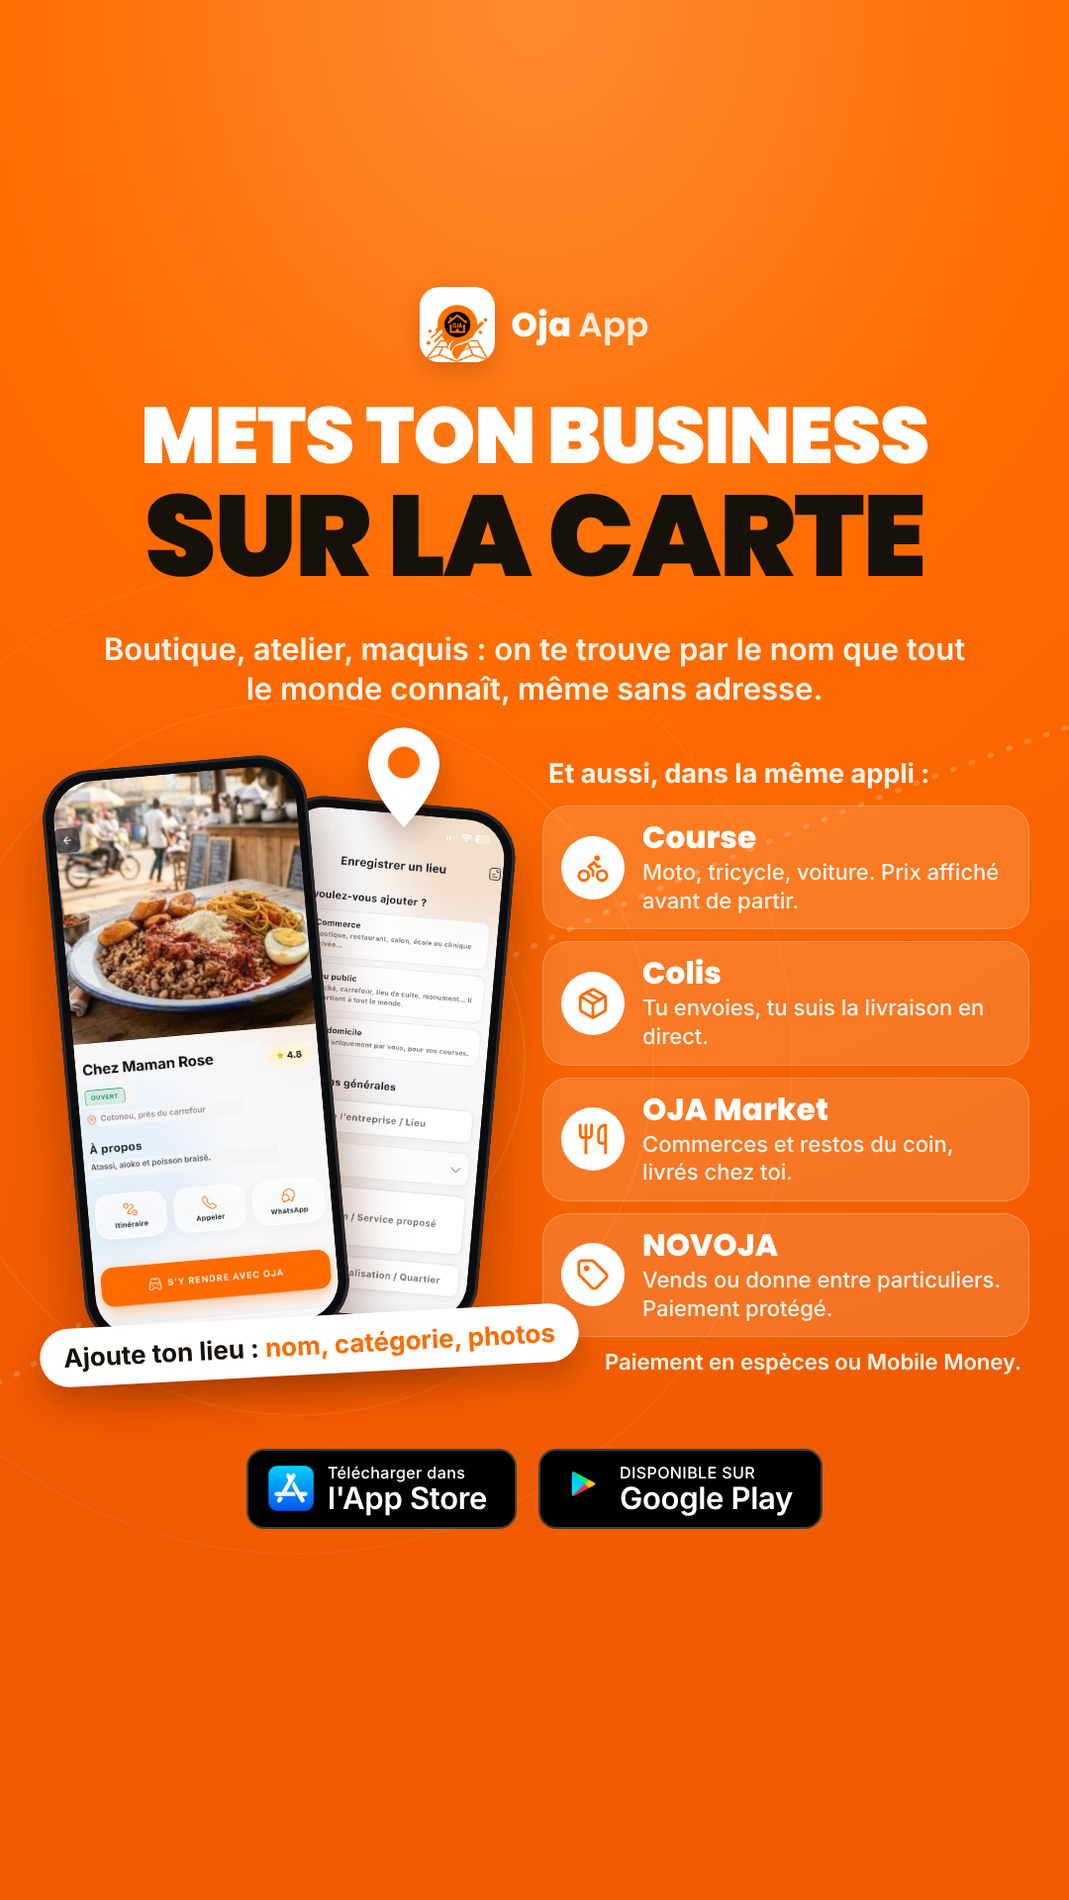
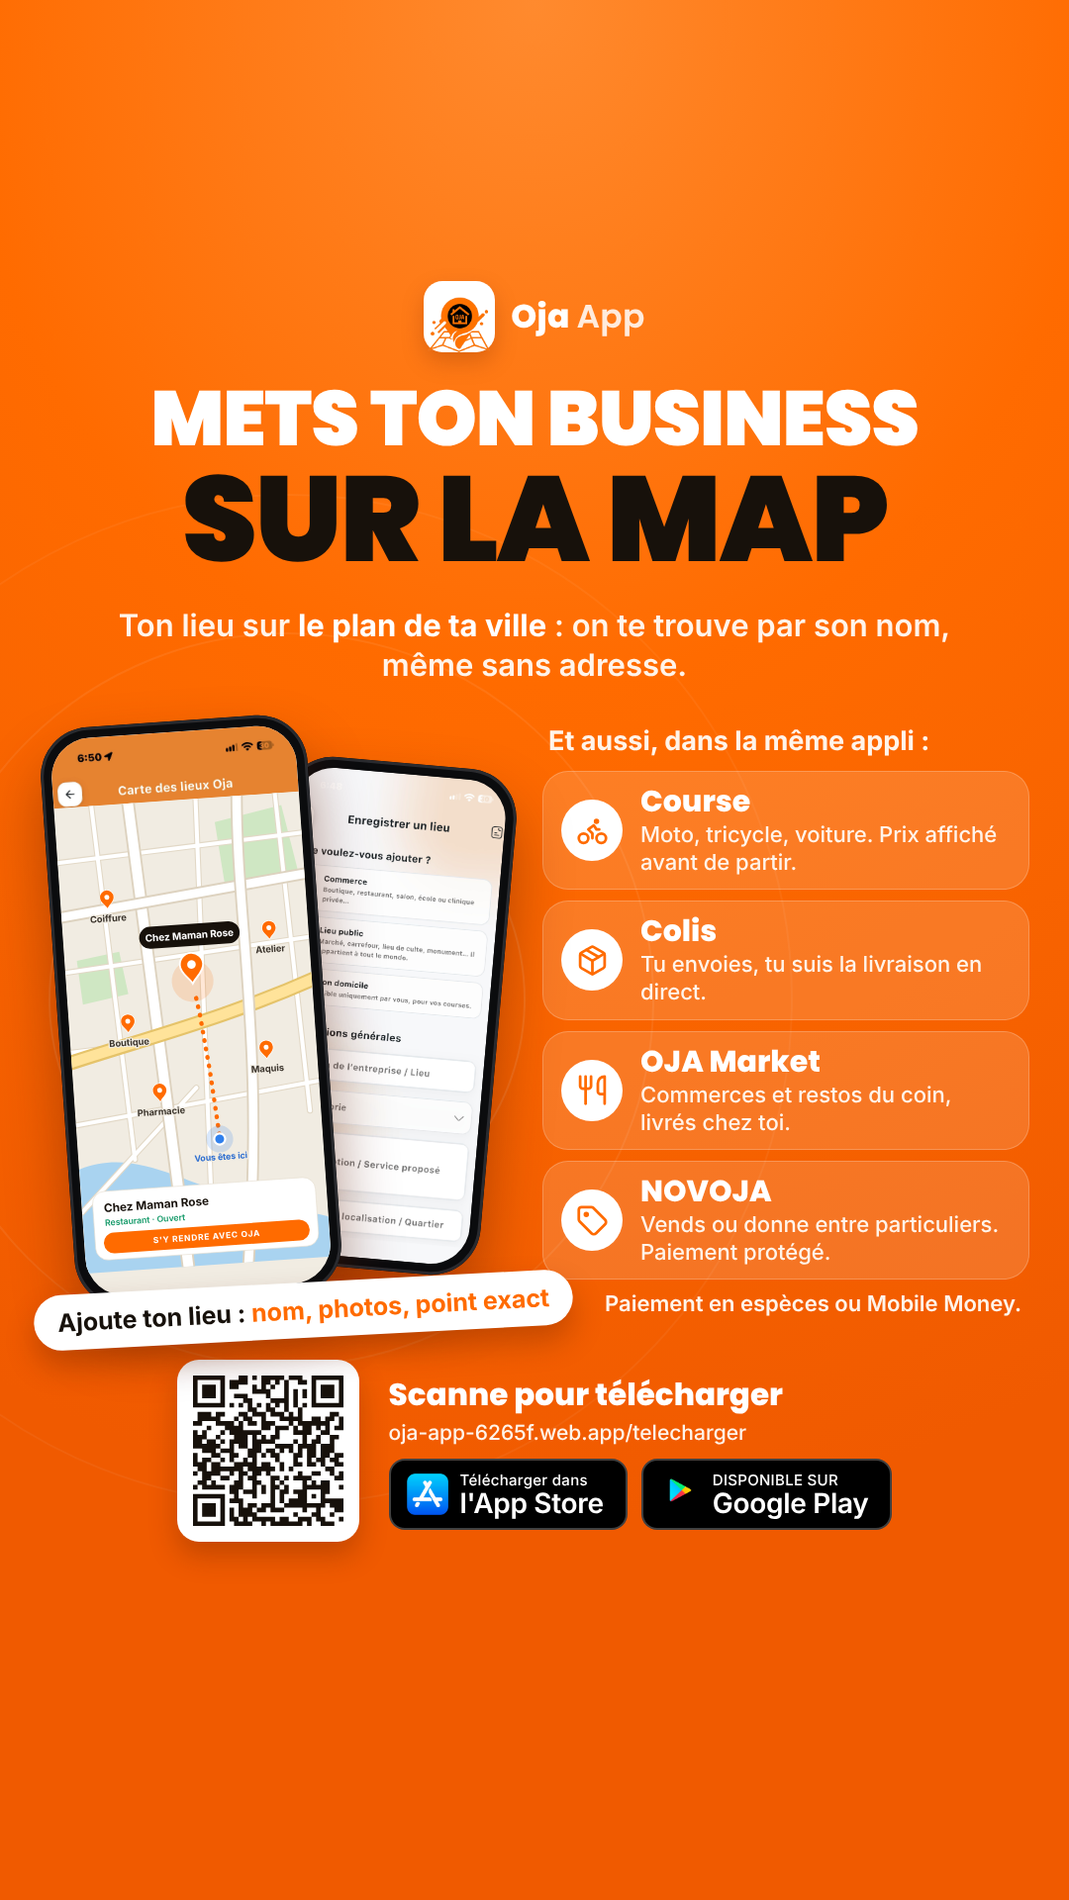
Pub Facebook : « sur la map » avec une vraie vue de plan (rues, épingles, Vous êtes ici) et QR code vers la page de téléchargement ; consignes ajoutées au kit
Claude-Session: https://claude.ai/code/session_013hXBLf1amJ3CRzgYm5RBGS

Changed region(s): [[0.0306, 0.125, 0.9778, 0.8438]]

diff --git a/motion/pub_facebook.html b/motion/pub_facebook.html
@@ -4,9 +4,13 @@
 <style>
 /* Facebook / Instagram ad for Oja App, after the « Griokids » ad Derrick sent: flat brand colour, logo, one big line,
    the app on real phones, store badges. A real layout, not a generated picture: real logo, real screens, real type.
-   9 Nov 2026, Derrick: every feature must be understood, and putting yourself on the map always comes FIRST
-   (also in marketing/kit/09-regles-et-mentions.md). So: the map is the headline and the phones
-   (« Enregistrer un lieu » and a place card, « Chez Maman Rose », fictitious), then the four other services in a list.
+   Derrick, 9 Nov 2026:
+   - every feature must be understood, and putting yourself on the map always comes FIRST;
+   - « carte » alone is unclear: it must be obvious that it is the MAP. So the headline says « sur la map », the line under it
+     « le plan de ta ville », and the front phone shows the real « Carte des lieux Oja » screen (its header) over a drawn
+     street map: roads, lagoon, pins with fictitious place names, « Vous êtes ici », the way to « Chez Maman Rose »;
+   - a QR code to https://oja-app-6265f.web.app/telecharger (pubs/qr_telecharger.svg, made with segno, checked by decoding).
+   Both rules are in marketing/kit/09-regles-et-mentions.md.
    #feed = 1080 x 1350 (4:5, news feed), #story = 1080 x 1920 (9:16: the same block, below the top 250 px, above the bottom 340 px).
    Built by src/pub_facebook_build.js. */
 :root { --or: #FF6B00; --or2: #F05A00; --ink: #17110B; --cream: #FFF4EA; }
@@ -20,57 +24,115 @@ body.story .ad { height: 1920px; }
 body.story .block { top: 250px; }
 svg.bg { position: absolute; left: 0; top: 0; width: 1080px; height: 1330px; }
 /* header */
-.brand { position: absolute; top: 40px; left: 0; right: 0; display: flex; justify-content: center; align-items: center; gap: 16px; }
-.icon { width: 76px; height: 76px; border-radius: 20px; background: #fff; display: grid; place-items: center; box-shadow: 0 10px 22px rgba(120, 40, 0, .25); }
+.brand { position: absolute; top: 34px; left: 0; right: 0; display: flex; justify-content: center; align-items: center; gap: 16px; }
+.icon { width: 72px; height: 72px; border-radius: 19px; background: #fff; display: grid; place-items: center; box-shadow: 0 10px 22px rgba(120, 40, 0, .25); }
 .icon img { width: 118%; height: 118%; object-fit: contain; margin-top: 6%; }
-.brand b { font: 800 34px 'Poppins'; letter-spacing: .3px; }
+.brand b { font: 800 33px 'Poppins'; letter-spacing: .3px; }
 .brand b span { font-weight: 600; opacity: .85; }
-h1 { position: absolute; top: 150px; left: 0; right: 0; text-align: center; font: 900 80px/1 'Poppins'; letter-spacing: -1.2px; text-transform: uppercase; }
-h1 .dark { display: block; color: var(--ink); font-size: 116px; letter-spacing: -2px; margin-top: 4px; }
-.sub { position: absolute; top: 386px; left: 90px; right: 90px; text-align: center; font: 600 31px/1.3 'Inter'; color: var(--cream); }
-/* the map feature: two phones and a pin */
+h1 { position: absolute; top: 134px; left: 0; right: 0; text-align: center; font: 900 78px/1 'Poppins'; letter-spacing: -1.2px; text-transform: uppercase; }
+h1 .dark { display: block; color: var(--ink); font-size: 122px; letter-spacing: -2px; margin-top: 2px; }
+.sub { position: absolute; top: 362px; left: 100px; right: 100px; text-align: center; font: 600 31px/1.3 'Inter'; color: var(--cream); }
+.sub b { color: #fff; font-weight: 800; }
+/* the map feature: the map screen in front, « Enregistrer un lieu » behind */
 .phone { position: absolute; border-radius: 50px; background: #0B0C0E; padding: 11px; box-shadow: 0 34px 60px rgba(90, 25, 0, .45), 0 0 0 3px #2A2B2F inset; }
-.phone img { display: block; width: 100%; height: 100%; object-fit: cover; object-position: top; border-radius: 40px; }
-.p1 { left: 64px; top: 520px; width: 268px; height: 583px; transform: rotate(-5deg); z-index: 2; }
-.p2 { left: 258px; top: 560px; width: 244px; height: 530px; transform: rotate(5deg); z-index: 1; }
-.pin { position: absolute; left: 360px; top: 470px; width: 96px; z-index: 3; filter: drop-shadow(0 12px 16px rgba(90, 25, 0, .35)); }
-.tag { position: absolute; left: 40px; top: 1080px; z-index: 3; background: #fff; color: var(--ink); border-radius: 999px; padding: 14px 24px;
-  font: 700 26px 'Inter'; white-space: nowrap; transform: rotate(-3deg); box-shadow: 0 16px 30px rgba(90, 25, 0, .3); }
+.phone > img, .phone .screen { display: block; width: 100%; height: 100%; object-fit: cover; object-position: top; border-radius: 40px; overflow: hidden; }
+.screen { background: #F1ECE2; position: relative; }
+.screen img { display: block; width: 100%; }
+.screen svg { display: block; width: 100%; }
+.p1 { left: 58px; top: 478px; width: 270px; height: 587px; transform: rotate(-4deg); z-index: 2; }
+.p2 { left: 268px; top: 520px; width: 236px; height: 513px; transform: rotate(5deg); z-index: 1; }
+.tag { position: absolute; left: 34px; top: 1046px; z-index: 3; background: #fff; color: var(--ink); border-radius: 999px; padding: 13px 24px;
+  font: 700 25px 'Inter'; white-space: nowrap; transform: rotate(-3deg); box-shadow: 0 16px 30px rgba(90, 25, 0, .3); }
 .tag em { font-style: normal; color: var(--or); }
 /* the other services */
-.more { position: absolute; left: 548px; top: 515px; width: 492px; }
-.more h2 { font: 700 27px 'Inter'; color: var(--cream); margin: 0 0 16px 6px; }
+.more { position: absolute; left: 548px; top: 482px; width: 492px; }
+.more h2 { font: 700 27px 'Inter'; color: var(--cream); margin: 0 0 14px 6px; }
 .svc { display: flex; align-items: center; gap: 18px; background: rgba(255, 255, 255, .14); border: 1.5px solid rgba(255, 255, 255, .22);
-  border-radius: 26px; padding: 14px 18px; margin-bottom: 12px; }
-.svc i { width: 64px; height: 64px; border-radius: 50%; background: #fff; display: grid; place-items: center; flex: none; }
-.svc svg { width: 34px; height: 34px; stroke: var(--or); fill: none; stroke-width: 2; stroke-linecap: round; stroke-linejoin: round; }
-.svc b { display: block; font: 800 31px/1.1 'Poppins'; }
-.svc span { display: block; margin-top: 4px; font: 500 22px/1.3 'Inter'; color: var(--cream); }
-.pay { margin: 4px 8px 0 0; text-align: right; font: 600 22px 'Inter'; color: var(--cream); }
-/* stores */
-.stores { position: absolute; left: 0; right: 0; top: 1214px; display: flex; justify-content: center; gap: 22px; }
-.badge { display: flex; align-items: center; gap: 14px; background: #000; border-radius: 18px; padding: 12px 28px 12px 20px; border: 2px solid rgba(255, 255, 255, .25); }
-.badge img { width: 46px; height: 46px; }
-.badge small { display: block; font: 500 16px 'Inter'; letter-spacing: .4px; }
-.badge b { display: block; font: 600 31px/1.05 'Inter'; letter-spacing: -.3px; }
+  border-radius: 26px; padding: 13px 18px; margin-bottom: 11px; }
+.svc i { width: 62px; height: 62px; border-radius: 50%; background: #fff; display: grid; place-items: center; flex: none; }
+.svc svg { width: 33px; height: 33px; stroke: var(--or); fill: none; stroke-width: 2; stroke-linecap: round; stroke-linejoin: round; }
+.svc b { display: block; font: 800 30px/1.1 'Poppins'; }
+.svc span { display: block; margin-top: 3px; font: 500 22px/1.28 'Inter'; color: var(--cream); }
+.pay { margin: 2px 8px 0 0; text-align: right; font: 600 22px 'Inter'; color: var(--cream); }
+/* download: QR code + store badges */
+.dl { position: absolute; left: 0; right: 0; top: 1124px; display: flex; justify-content: center; align-items: center; gap: 30px; }
+.qr { width: 184px; height: 184px; background: #fff; border-radius: 22px; padding: 16px; box-shadow: 0 14px 28px rgba(90, 25, 0, .3); }
+.qr img { display: block; width: 100%; height: 100%; }
+.dl h3 { font: 800 31px 'Poppins'; }
+.dl p { font: 500 21px 'Inter'; color: var(--cream); margin: 2px 0 14px; }
+.stores { display: flex; gap: 14px; }
+.badge { display: flex; align-items: center; gap: 12px; background: #000; border-radius: 16px; padding: 10px 22px 10px 16px; border: 2px solid rgba(255, 255, 255, .25); }
+.badge img { width: 42px; height: 42px; }
+.badge small { display: block; font: 500 15px 'Inter'; letter-spacing: .3px; }
+.badge b { display: block; font: 600 28px/1.05 'Inter'; letter-spacing: -.3px; }
 </style></head>
 <body>
 <div class="ad"><div class="block">
   <svg class="bg" viewBox="0 0 1080 1330" aria-hidden="true">
     <g fill="none" stroke="#fff">
-      <circle cx="300" cy="820" r="230" stroke-opacity=".10" stroke-width="2"/>
-      <circle cx="300" cy="820" r="360" stroke-opacity=".07" stroke-width="2"/>
-      <circle cx="300" cy="820" r="500" stroke-opacity=".05" stroke-width="2"/>
-      <path d="M-40 1160 C 160 1110, 120 900, 300 820 S 640 640, 1120 470" stroke-opacity=".2" stroke-width="5" stroke-dasharray="2 18" stroke-linecap="round"/>
+      <circle cx="290" cy="760" r="240" stroke-opacity=".10" stroke-width="2"/>
+      <circle cx="290" cy="760" r="370" stroke-opacity=".07" stroke-width="2"/>
+      <circle cx="290" cy="760" r="510" stroke-opacity=".05" stroke-width="2"/>
     </g>
   </svg>
   <div class="brand"><div class="icon"><img src="../video1/assets/logo-oja-carte.png" alt=""></div><b>Oja <span>App</span></b></div>
-  <h1>Mets ton business<span class="dark">sur la carte</span></h1>
-  <p class="sub">Boutique, atelier, maquis : on te trouve par le nom que tout le monde connaît, même sans adresse.</p>
-  <svg class="pin" viewBox="0 0 24 30"><path d="M12 29s-9-9.2-9-16.2A9 9 0 0 1 21 12.8C21 19.8 12 29 12 29z" fill="#fff"/><circle cx="12" cy="12.6" r="4" fill="#FF6B00"/></svg>
+  <h1>Mets ton business<span class="dark">sur la map</span></h1>
+  <p class="sub">Ton lieu sur <b>le plan de ta ville</b> : on te trouve par son nom, même sans adresse.</p>
+
   <div class="phone p2"><img src="../video3/assets/app/ajout.jpg" alt=""></div>
-  <div class="phone p1"><img src="../video3/assets/app/fiche.jpg" alt=""></div>
-  <div class="tag">Ajoute ton lieu : <em>nom, catégorie, photos</em></div>
+  <div class="phone p1"><div class="screen">
+    <img src="pubs/carte_entete.jpg" alt="">
+    <!-- a drawn street map (fictitious places), in place of the real map, which shows other people's businesses -->
+    <svg viewBox="0 0 400 760" aria-hidden="true">
+      <rect width="400" height="760" fill="#F1ECE2"/>
+      <path d="M260 40 l110 -20 l20 110 l-120 20z" fill="#CFE7C3"/>
+      <path d="M20 250 l70 -10 l10 70 l-75 12z" fill="#CFE7C3"/>
+      <path d="M0 590 C 90 560, 160 620, 250 650 S 400 690, 410 700 L410 770 L0 770Z" fill="#A9D3F0"/>
+      <text x="40" y="722" font-family="Inter" font-style="italic" font-size="17" fill="#5C8EBA">Lagune</text>
+      <g fill="none" stroke-linecap="round">
+        <g stroke="#E2D8C6" stroke-width="10">
+          <path d="M-20 270 L420 236"/><path d="M-20 520 L420 470"/><path d="M60 -20 L92 580"/><path d="M232 -20 L212 640"/>
+          <path d="M360 -20 L382 520"/><path d="M-20 90 L420 66"/><path d="M0 660 L200 470"/><path d="M-20 400 L130 392"/>
+        </g>
+        <g stroke="#FFFFFF" stroke-width="6.5">
+          <path d="M-20 270 L420 236"/><path d="M-20 520 L420 470"/><path d="M60 -20 L92 580"/><path d="M232 -20 L212 640"/>
+          <path d="M360 -20 L382 520"/><path d="M-20 90 L420 66"/><path d="M0 660 L200 470"/><path d="M-20 400 L130 392"/>
+        </g>
+        <path d="M120 -20 L168 780" stroke="#DDD2BF" stroke-width="22"/><path d="M120 -20 L168 780" stroke="#FFFFFF" stroke-width="16"/>
+        <path d="M-20 180 L420 132" stroke="#DDD2BF" stroke-width="20"/><path d="M-20 180 L420 132" stroke="#FFFFFF" stroke-width="14"/>
+        <path d="M-20 420 C 120 384, 260 360, 420 300" stroke="#E5C36A" stroke-width="24"/><path d="M-20 420 C 120 384, 260 360, 420 300" stroke="#FFE39A" stroke-width="17"/>
+        <path d="M300 -20 C 282 200, 318 400, 262 780" stroke="#DDD2BF" stroke-width="20"/><path d="M300 -20 C 282 200, 318 400, 262 780" stroke="#FFFFFF" stroke-width="14"/>
+        <!-- the way from « Vous êtes ici » to the place -->
+        <path d="M232 548 L224 446 L214 352 L208 312" stroke="#FF6B00" stroke-width="7" stroke-dasharray="1 13"/>
+      </g>
+      <g font-family="Inter" font-weight="700" font-size="15" fill="#3A332B" stroke="#F1ECE2" stroke-width="4" paint-order="stroke" text-anchor="middle">
+        <g transform="translate(76 168)"><path d="M0 0c-3-6-11-10-11-18a11 11 0 0 1 22 0c0 8-8 12-11 18z" fill="#FF6B00" stroke="#fff" stroke-width="2"/><circle cy="-18" r="4" fill="#fff" stroke="none"/><text y="22">Coiffure</text></g>
+        <g transform="translate(336 236)"><path d="M0 0c-3-6-11-10-11-18a11 11 0 0 1 22 0c0 8-8 12-11 18z" fill="#FF6B00" stroke="#fff" stroke-width="2"/><circle cy="-18" r="4" fill="#fff" stroke="none"/><text y="22">Atelier</text></g>
+        <g transform="translate(96 372)"><path d="M0 0c-3-6-11-10-11-18a11 11 0 0 1 22 0c0 8-8 12-11 18z" fill="#FF6B00" stroke="#fff" stroke-width="2"/><circle cy="-18" r="4" fill="#fff" stroke="none"/><text y="22">Boutique</text></g>
+        <g transform="translate(318 430)"><path d="M0 0c-3-6-11-10-11-18a11 11 0 0 1 22 0c0 8-8 12-11 18z" fill="#FF6B00" stroke="#fff" stroke-width="2"/><circle cy="-18" r="4" fill="#fff" stroke="none"/><text y="22">Maquis</text></g>
+        <g transform="translate(140 488)"><path d="M0 0c-3-6-11-10-11-18a11 11 0 0 1 22 0c0 8-8 12-11 18z" fill="#FF6B00" stroke="#fff" stroke-width="2"/><circle cy="-18" r="4" fill="#fff" stroke="none"/><text y="22">Pharmacie</text></g>
+      </g>
+      <!-- the place, selected -->
+      <g transform="translate(206 300)">
+        <circle cy="-4" r="34" fill="#FF6B00" opacity=".16"/>
+        <path d="M0 0c-5-10-19-17-19-31a19 19 0 0 1 38 0c0 14-14 21-19 31z" fill="#FF6B00" stroke="#fff" stroke-width="3"/><circle cy="-31" r="7" fill="#fff"/>
+        <g transform="translate(0 -78)"><rect x="-82" y="-19" width="164" height="36" rx="18" fill="#17110B"/><text y="5" text-anchor="middle" font-family="Inter" font-weight="700" font-size="16" fill="#fff">Chez Maman Rose</text></g>
+      </g>
+      <!-- you are here -->
+      <circle cx="232" cy="556" r="22" fill="#2F80ED" opacity=".18"/><circle cx="232" cy="556" r="9" fill="#2F80ED" stroke="#fff" stroke-width="3.5"/>
+      <text x="232" y="590" text-anchor="middle" font-family="Inter" font-weight="700" font-size="14" fill="#2F6FD0" stroke="#F1ECE2" stroke-width="4" paint-order="stroke">Vous êtes ici</text>
+      <!-- the place card -->
+      <g transform="translate(18 628)">
+        <rect width="364" height="112" rx="20" fill="#fff" stroke="#E6DED0"/>
+        <text x="18" y="34" font-family="Inter" font-weight="800" font-size="19" fill="#17110B">Chez Maman Rose</text>
+        <text x="18" y="56" font-family="Inter" font-weight="600" font-size="14" fill="#159A69">Restaurant · Ouvert</text>
+        <rect x="14" y="68" width="336" height="34" rx="17" fill="#FF6B00"/>
+        <text x="182" y="90" text-anchor="middle" font-family="Inter" font-weight="800" font-size="13.5" letter-spacing="1.2" fill="#fff">S'Y RENDRE AVEC OJA</text>
+      </g>
+    </svg>
+  </div></div>
+  <div class="tag">Ajoute ton lieu : <em>nom, photos, point exact</em></div>
+
   <div class="more">
     <h2>Et aussi, dans la même appli :</h2>
     <div class="svc"><i><svg viewBox="0 0 24 24"><circle cx="5.5" cy="17.5" r="3.5"/><circle cx="18.5" cy="17.5" r="3.5"/><path d="M15 6a1 1 0 1 0 0-2 1 1 0 0 0 0 2zm-3 11.5V14l-3-3 4-3 2 3h2"/></svg></i>
@@ -83,9 +145,17 @@ h1 .dark { display: block; color: var(--ink); font-size: 116px; letter-spacing: 
       <div><b>NOVOJA</b><span>Vends ou donne entre particuliers. Paiement protégé.</span></div></div>
     <p class="pay">Paiement en espèces ou Mobile Money.</p>
   </div>
-  <div class="stores">
-    <div class="badge"><img src="../video1/assets/store-app-store.png" alt=""><div><small>Télécharger dans</small><b>l'App Store</b></div></div>
-    <div class="badge"><img src="../video1/assets/store-google-play.png" alt=""><div><small>DISPONIBLE SUR</small><b>Google Play</b></div></div>
+
+  <div class="dl">
+    <div class="qr"><img src="pubs/qr_telecharger.svg" alt="QR code : oja-app-6265f.web.app/telecharger"></div>
+    <div>
+      <h3>Scanne pour télécharger</h3>
+      <p>oja-app-6265f.web.app/telecharger</p>
+      <div class="stores">
+        <div class="badge"><img src="../video1/assets/store-app-store.png" alt=""><div><small>Télécharger dans</small><b>l'App Store</b></div></div>
+        <div class="badge"><img src="../video1/assets/store-google-play.png" alt=""><div><small>DISPONIBLE SUR</small><b>Google Play</b></div></div>
+      </div>
+    </div>
   </div>
 </div></div>
 <script>if (location.hash === '#story') document.body.classList.add('story');</script>

diff --git a/motion/README.md b/motion/README.md
@@ -1089,27 +1089,37 @@ La musique est un groove afro-house à 104 BPM, avec un tic-tac au début et des
 
 **Rendu :** `src/journee_collage_render.sh` (depuis `motion/`) produit les deux versions.
 
-## OJA — Pub Facebook / Instagram « Mets ton business sur la carte » (image)
+## OJA — Pub Facebook / Instagram « Mets ton business sur la map » (image)
 
 Image publicitaire pour lancer Oja App sur Facebook et Instagram. Elle s'inspire de la pub « Griokids » envoyée par Derrick : couleur de marque en aplat, logo, une grande phrase, l'appli sur de vrais téléphones et les logos des stores.
 
 C'est une vraie mise en page, pas une image générée par IA : vrai logo, vrais écrans de l'appli, vraie typographie.
 
-Consigne de Derrick (9 novembre 2026) : on doit comprendre toutes les fonctions, et **se mettre sur la carte passe toujours en premier**.
+Consignes de Derrick (9 novembre 2026), reprises dans `marketing/kit/09-regles-et-mentions.md` :
+- on doit comprendre toutes les fonctions ;
+- se mettre sur la map passe toujours en premier ;
+- on doit voir tout de suite qu'il s'agit de la map, pas d'une « carte » au sens flou ;
+- un QR code vers https://oja-app-6265f.web.app/telecharger.
 
 **Contenu de l'image :**
-- **En premier, la carte :**
-  - le titre « Mets ton business sur la carte » ;
-  - la phrase « Boutique, atelier, maquis : on te trouve par le nom que tout le monde connaît, même sans adresse. » ;
-  - deux téléphones : la fiche d'un lieu fictif (« Chez Maman Rose », `video3/assets/app/fiche.jpg`) et l'écran « Enregistrer un lieu » (`ajout.jpg`) ;
-  - une épingle et la pastille « Ajoute ton lieu : nom, catégorie, photos ».
+- **En premier, la map :**
+  - le titre « Mets ton business sur la map » ;
+  - la phrase « Ton lieu sur le plan de ta ville : on te trouve par son nom, même sans adresse. » ;
+  - au premier plan, le vrai écran « Carte des lieux Oja ». Son en-tête vient de `video3/assets/app/carte1.jpg` ; la map est dessinée par-dessus, parce que la vraie map montre les commerces d'autres personnes. On y voit des rues, une lagune, des épingles (Coiffure, Atelier, Boutique, Maquis, Pharmacie), « Vous êtes ici », le chemin jusqu'à « Chez Maman Rose » (lieu fictif) et sa fiche avec « S'y rendre avec OJA » ;
+  - derrière, l'écran « Enregistrer un lieu » (`ajout.jpg`) ;
+  - la pastille « Ajoute ton lieu : nom, photos, point exact ».
 - **Puis, sous « Et aussi, dans la même appli » :**
   - Course : moto, tricycle, voiture, prix affiché avant de partir ;
   - Colis : suivi en direct ;
   - OJA Market : commerces et restos livrés ;
   - NOVOJA : vendre ou donner, paiement protégé ;
   - « Paiement en espèces ou Mobile Money ».
-- **En bas,** les logos de l'App Store et de Google Play.
+- **En bas :**
+  - le QR code (`pubs/qr_telecharger.svg`, fait avec segno) ;
+  - « Scanne pour télécharger » et le lien en clair ;
+  - les logos de l'App Store et de Google Play.
+
+  Le QR code a été vérifié : on le décode sur les images rendues.
 
 Aucun montant, aucun concurrent, pas de « gratuit ». « C'est mon commerce » (revendiquer sa fiche) n'est pas montré : cette fonction n'est pas encore sortie.
 

diff --git a/marketing/kit/09-regles-et-mentions.md b/marketing/kit/09-regles-et-mentions.md
@@ -46,6 +46,10 @@
 ## Fonction mise en avant en premier
 - **Mettre son entreprise sur la carte** : boutique, atelier, restaurant, petit business. Au Bénin, se faire trouver sans adresse précise est un casse-tête ; sur OJA, on ajoute son lieu (nom, catégorie, point exact, photos) et on le trouve par le nom que les gens lui donnent. « C'est mon commerce » (revendiquer sa fiche) arrive avec la prochaine version : ne pas le promouvoir avant.
 - Consigne de Derrick (9 novembre 2026) : dans chaque pub ou visuel qui présente l'appli, cette fonction passe **toujours en premier** (titre et image principale). Les autres services viennent ensuite, pour que l'on comprenne toutes les fonctions.
+- Consigne de Derrick (9 novembre 2026) : « carte » seul est flou (carte de visite ? carte bancaire ?). À partir de maintenant, on doit voir tout de suite qu'il s'agit de la **map**, le plan de la ville :
+  - dans le texte, on dit « sur la map » ou « le plan de ta ville » ;
+  - à l'image, on montre une vraie vue de map : rues, épingles, « Vous êtes ici ».
+- Lien de téléchargement à mettre dans les visuels (en QR code ou en lien) : https://oja-app-6265f.web.app/telecharger
 
 ## Commission chauffeurs (chiffres donnés par Derrick, 5 novembre 2026)
 - **Pass illimité** : 0 % de commission pendant 24 h, 7 jours ou 1 mois.
